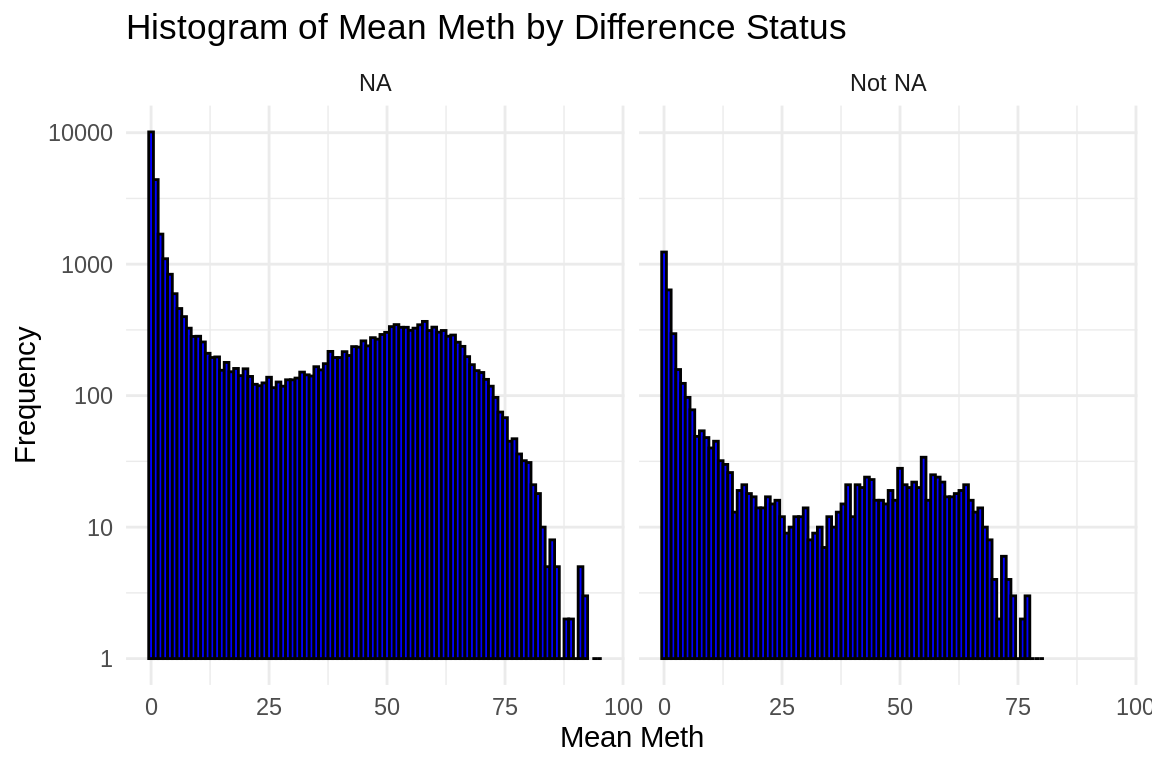
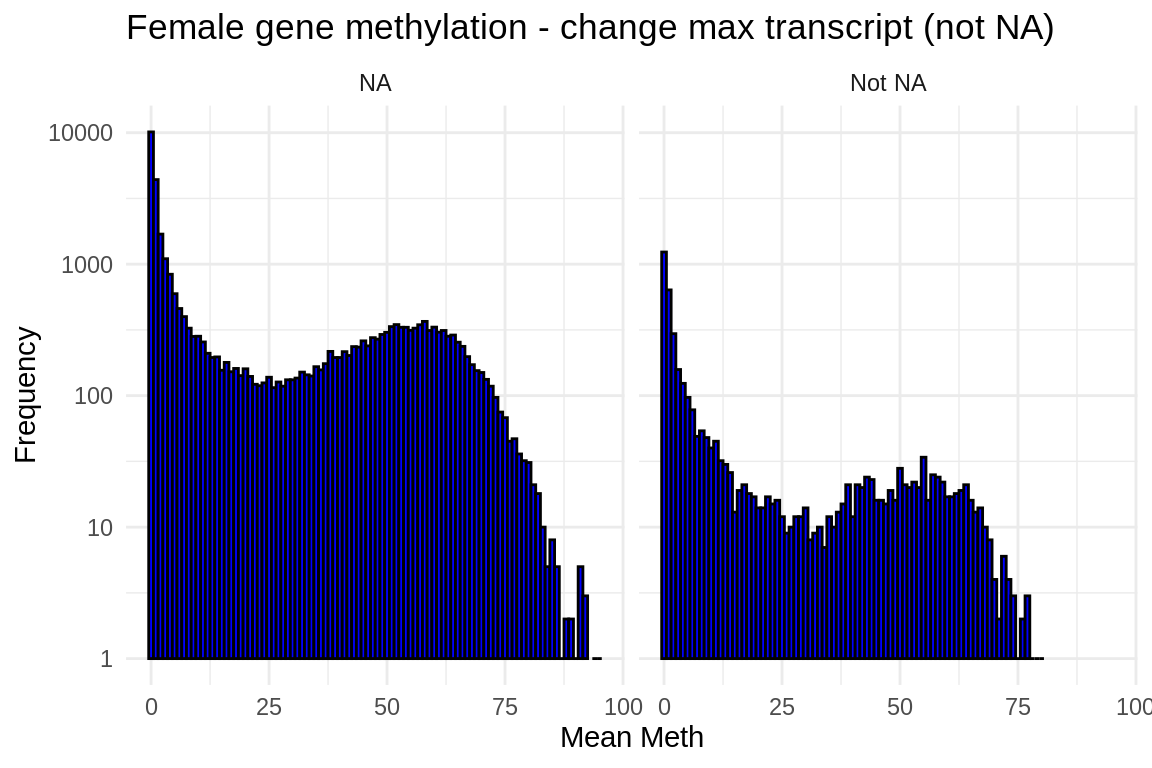
change labels on meth / max transcript graphs

Changed region(s): [[0.125, 0.0, 0.9375, 0.0625]]

diff --git a/code/76-meth-maxtranscript.html b/code/76-meth-maxtranscript.html
@@ -163,7 +163,7 @@ pre > code.sourceCode > span > a:first-child::before { text-decoration: underlin
 <span id="cb8-5"><a href="#cb8-5" aria-hidden="true" tabindex="-1"></a><span class="fu">ggplot</span>(fmethmax, <span class="fu">aes</span>(<span class="at">x =</span> mean_meth, <span class="at">fill =</span> diff_status)) <span class="sc">+</span></span>
 <span id="cb8-6"><a href="#cb8-6" aria-hidden="true" tabindex="-1"></a>  <span class="fu">geom_histogram</span>(<span class="at">position =</span> <span class="st">"identity"</span>, <span class="at">alpha =</span> <span class="fl">0.5</span>, <span class="at">binwidth =</span> <span class="dv">1</span>) <span class="sc">+</span> <span class="co"># Adjust binwidth as needed</span></span>
 <span id="cb8-7"><a href="#cb8-7" aria-hidden="true" tabindex="-1"></a>  <span class="fu">scale_fill_manual</span>(<span class="at">values =</span> <span class="fu">c</span>(<span class="st">"NA"</span> <span class="ot">=</span> <span class="st">"red"</span>, <span class="st">"Not NA"</span> <span class="ot">=</span> <span class="st">"blue"</span>)) <span class="sc">+</span></span>
-<span id="cb8-8"><a href="#cb8-8" aria-hidden="true" tabindex="-1"></a>  <span class="fu">labs</span>(<span class="at">title =</span> <span class="st">"Histogram of mean_meth"</span>,</span>
+<span id="cb8-8"><a href="#cb8-8" aria-hidden="true" tabindex="-1"></a>  <span class="fu">labs</span>(<span class="at">title =</span> <span class="st">"Female gene methylation - change max transcript (not NA)"</span>,</span>
 <span id="cb8-9"><a href="#cb8-9" aria-hidden="true" tabindex="-1"></a>       <span class="at">x =</span> <span class="st">"Mean Methylation"</span>,</span>
 <span id="cb8-10"><a href="#cb8-10" aria-hidden="true" tabindex="-1"></a>       <span class="at">fill =</span> <span class="st">"Difference Status"</span>) <span class="sc">+</span></span>
 <span id="cb8-11"><a href="#cb8-11" aria-hidden="true" tabindex="-1"></a>  <span class="fu">theme_minimal</span>()</span></code><button title="Copy to Clipboard" class="code-copy-button"><i class="bi"></i></button></pre></div>
@@ -182,7 +182,7 @@ pre > code.sourceCode > span > a:first-child::before { text-decoration: underlin
 <span id="cb9-4"><a href="#cb9-4" aria-hidden="true" tabindex="-1"></a>  <span class="fu">scale_y_log10</span>() <span class="sc">+</span> <span class="co"># Apply log scale to y-axis) </span></span>
 <span id="cb9-5"><a href="#cb9-5" aria-hidden="true" tabindex="-1"></a>  <span class="fu">labs</span>(<span class="at">x =</span> <span class="st">"Mean Meth"</span>, <span class="at">y =</span> <span class="st">"Frequency"</span>) <span class="sc">+</span></span>
 <span id="cb9-6"><a href="#cb9-6" aria-hidden="true" tabindex="-1"></a>  <span class="fu">theme_minimal</span>() <span class="sc">+</span></span>
-<span id="cb9-7"><a href="#cb9-7" aria-hidden="true" tabindex="-1"></a>  <span class="fu">ggtitle</span>(<span class="st">"Histogram of Mean Meth by Difference Status"</span>)</span></code><button title="Copy to Clipboard" class="code-copy-button"><i class="bi"></i></button></pre></div>
+<span id="cb9-7"><a href="#cb9-7" aria-hidden="true" tabindex="-1"></a>  <span class="fu">ggtitle</span>(<span class="st">"Female gene methylation - change max transcript (not NA)"</span>)</span></code><button title="Copy to Clipboard" class="code-copy-button"><i class="bi"></i></button></pre></div>
 <div class="cell-output-display">
 <div class="quarto-figure quarto-figure-center">
 <figure class="figure">
@@ -200,7 +200,7 @@ pre > code.sourceCode > span > a:first-child::before { text-decoration: underlin
 <span id="cb10-4"><a href="#cb10-4" aria-hidden="true" tabindex="-1"></a>  <span class="fu">scale_y_log10</span>() <span class="sc">+</span> <span class="co"># Apply log scale to y-axis) </span></span>
 <span id="cb10-5"><a href="#cb10-5" aria-hidden="true" tabindex="-1"></a>  <span class="fu">labs</span>(<span class="at">x =</span> <span class="st">"Mean Meth"</span>, <span class="at">y =</span> <span class="st">"Frequency"</span>) <span class="sc">+</span></span>
 <span id="cb10-6"><a href="#cb10-6" aria-hidden="true" tabindex="-1"></a>  <span class="fu">theme_minimal</span>() <span class="sc">+</span></span>
-<span id="cb10-7"><a href="#cb10-7" aria-hidden="true" tabindex="-1"></a>  <span class="fu">ggtitle</span>(<span class="st">"Histogram of Mean Meth by Difference Status"</span>)</span></code><button title="Copy to Clipboard" class="code-copy-button"><i class="bi"></i></button></pre></div>
+<span id="cb10-7"><a href="#cb10-7" aria-hidden="true" tabindex="-1"></a>  <span class="fu">ggtitle</span>(<span class="st">"Female gene methylation - change max transcript (not NA)"</span>)</span></code><button title="Copy to Clipboard" class="code-copy-button"><i class="bi"></i></button></pre></div>
 <div class="cell-output-display">
 <div class="quarto-figure quarto-figure-center">
 <figure class="figure">
@@ -213,7 +213,7 @@ pre > code.sourceCode > span > a:first-child::before { text-decoration: underlin
 <div class="sourceCode cell-code" id="cb11"><pre class="sourceCode r code-with-copy"><code class="sourceCode r"><span id="cb11-1"><a href="#cb11-1" aria-hidden="true" tabindex="-1"></a><span class="fu">ggplot</span>(fmethmax, <span class="fu">aes</span>(<span class="at">x =</span> difference, <span class="at">y =</span> diff_meth)) <span class="sc">+</span></span>
 <span id="cb11-2"><a href="#cb11-2" aria-hidden="true" tabindex="-1"></a>  <span class="fu">geom_point</span>() <span class="sc">+</span>  <span class="co"># This adds the points to the plot</span></span>
 <span id="cb11-3"><a href="#cb11-3" aria-hidden="true" tabindex="-1"></a>  <span class="fu">theme_minimal</span>() <span class="sc">+</span>  <span class="co"># Optional: Applies a minimalistic theme</span></span>
-<span id="cb11-4"><a href="#cb11-4" aria-hidden="true" tabindex="-1"></a>  <span class="fu">labs</span>(<span class="at">x =</span> <span class="st">"Difference"</span>, <span class="at">y =</span> <span class="st">"Diff Meth"</span>, <span class="at">title =</span> <span class="st">"Scatter plot of Difference vs. Diff Meth"</span>) <span class="sc">+</span></span>
+<span id="cb11-4"><a href="#cb11-4" aria-hidden="true" tabindex="-1"></a>  <span class="fu">labs</span>(<span class="at">x =</span> <span class="st">"Max transcript Difference"</span>, <span class="at">y =</span> <span class="st">"Meth Difference"</span>, <span class="at">title =</span> <span class="st">"max transcript vs. methylation"</span>) <span class="sc">+</span></span>
 <span id="cb11-5"><a href="#cb11-5" aria-hidden="true" tabindex="-1"></a>  <span class="fu">geom_smooth</span>(<span class="at">method =</span> <span class="st">"lm"</span>, <span class="at">se =</span> <span class="cn">FALSE</span>, <span class="at">color =</span> <span class="st">"blue"</span>)  <span class="co"># Adds a linear regression line without confidence interval</span></span></code><button title="Copy to Clipboard" class="code-copy-button"><i class="bi"></i></button></pre></div>
 <div class="cell-output-display">
 <div class="quarto-figure quarto-figure-center">
@@ -288,7 +288,7 @@ pre > code.sourceCode > span > a:first-child::before { text-decoration: underlin
 <div class="sourceCode cell-code" id="cb18"><pre class="sourceCode r code-with-copy"><code class="sourceCode r"><span id="cb18-1"><a href="#cb18-1" aria-hidden="true" tabindex="-1"></a><span class="fu">ggplot</span>(mmethmax, <span class="fu">aes</span>(<span class="at">x =</span> difference, <span class="at">y =</span> diff_meth)) <span class="sc">+</span></span>
 <span id="cb18-2"><a href="#cb18-2" aria-hidden="true" tabindex="-1"></a>  <span class="fu">geom_point</span>() <span class="sc">+</span>  <span class="co"># This adds the points to the plot</span></span>
 <span id="cb18-3"><a href="#cb18-3" aria-hidden="true" tabindex="-1"></a>  <span class="fu">theme_minimal</span>() <span class="sc">+</span>  <span class="co"># Optional: Applies a minimalistic theme</span></span>
-<span id="cb18-4"><a href="#cb18-4" aria-hidden="true" tabindex="-1"></a>  <span class="fu">labs</span>(<span class="at">x =</span> <span class="st">"Difference"</span>, <span class="at">y =</span> <span class="st">"Diff Meth"</span>, <span class="at">title =</span> <span class="st">"Scatter plot of Difference vs. Diff Meth"</span>) <span class="sc">+</span></span>
+<span id="cb18-4"><a href="#cb18-4" aria-hidden="true" tabindex="-1"></a>  <span class="fu">labs</span>(<span class="at">x =</span> <span class="st">"Max transcript Difference"</span>, <span class="at">y =</span> <span class="st">"Meth Difference"</span>, <span class="at">title =</span> <span class="st">"max transcript vs. methylation"</span>) <span class="sc">+</span></span>
 <span id="cb18-5"><a href="#cb18-5" aria-hidden="true" tabindex="-1"></a>  <span class="fu">geom_smooth</span>(<span class="at">method =</span> <span class="st">"lm"</span>, <span class="at">se =</span> <span class="cn">FALSE</span>, <span class="at">color =</span> <span class="st">"blue"</span>)  <span class="co"># Adds a linear regression line without confidence interval</span></span></code><button title="Copy to Clipboard" class="code-copy-button"><i class="bi"></i></button></pre></div>
 <div class="cell-output-display">
 <div class="quarto-figure quarto-figure-center">
